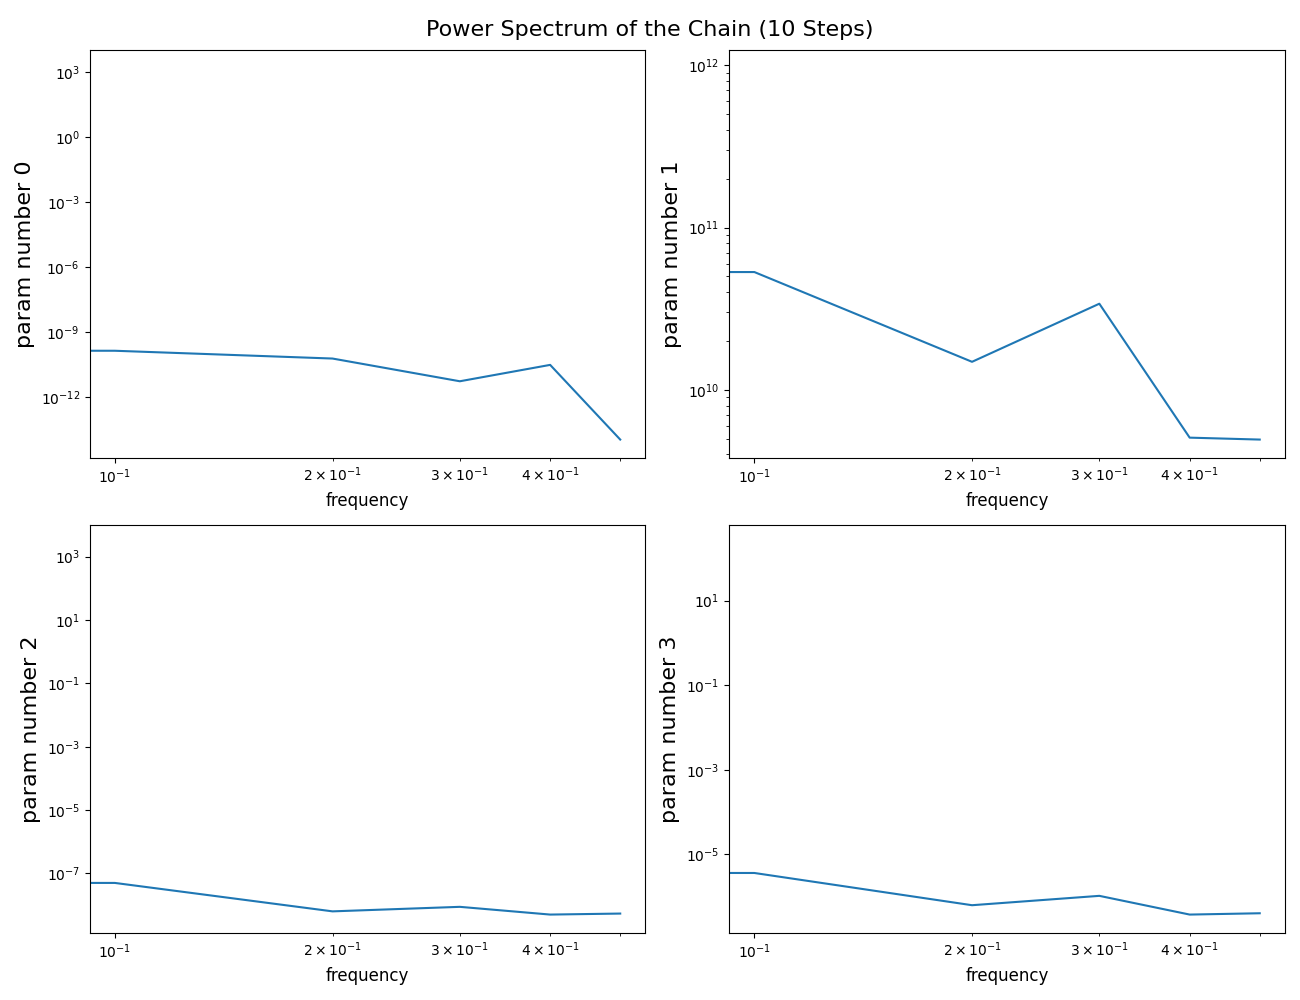
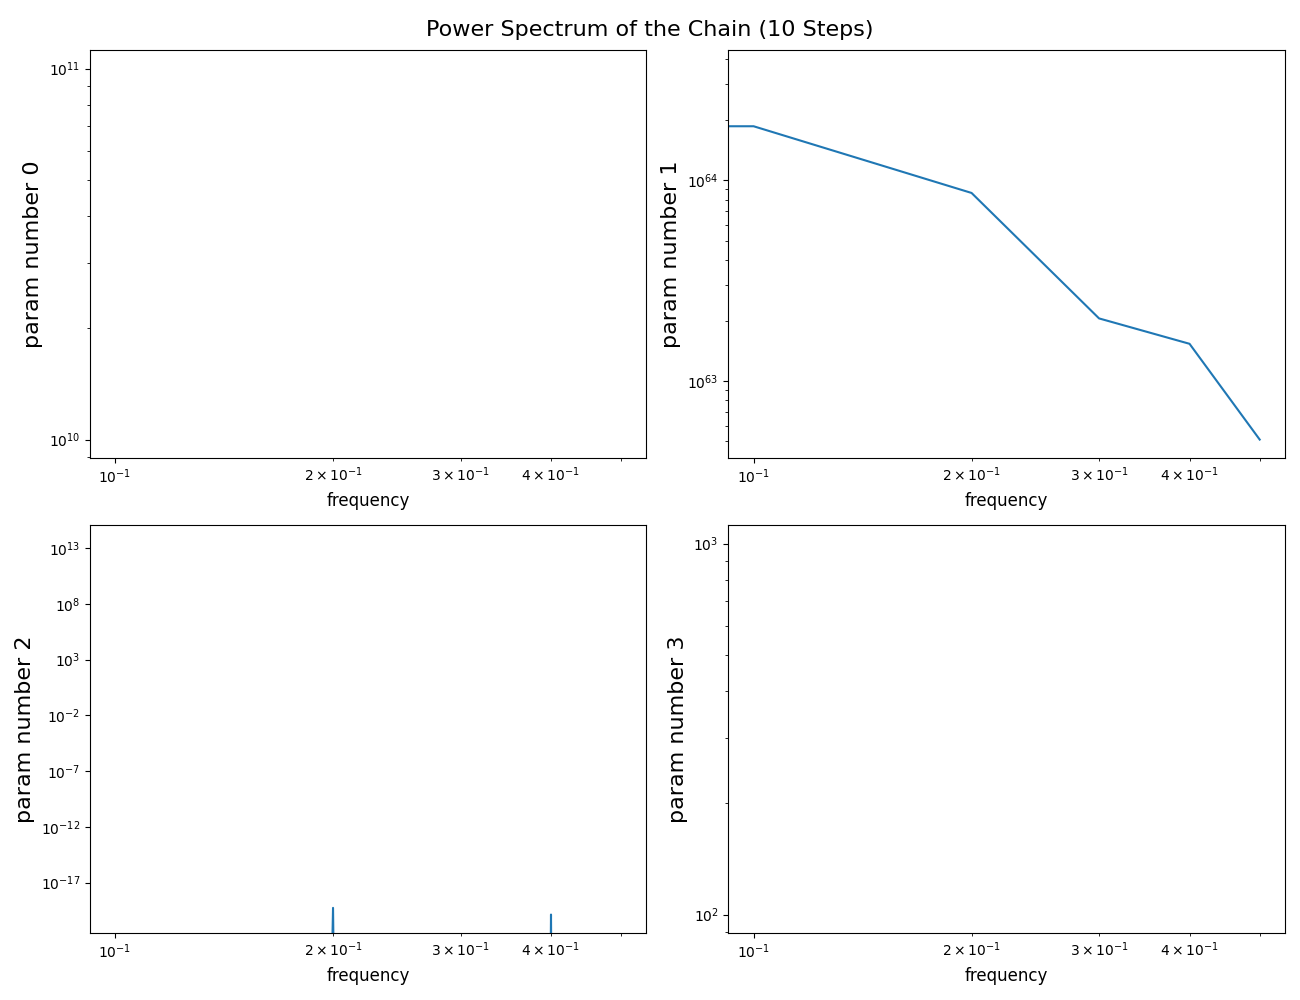
fixed the bug with parameters

diff --git a/code_history/known_curve/mcmc.py b/code_history/known_curve/mcmc.py
@@ -8,8 +8,8 @@ from math import ceil
 
 # %%
 #loading the EDGES data (the e subscipt is related to EDGES)
-#data_1 = pd.read_csv('/home/o/oscarh/aryanah/My-Project/data/data_1.csv')
-data_1 = pd.read_csv('/home/aryana/GitHub/My-Project/data/data_1.csv')
+data_1 = pd.read_csv('/home/o/oscarh/aryanah/My-Project/data/data_1.csv')
+#data_1 = pd.read_csv('/home/aryana/GitHub/My-Project/data/data_1.csv')
 
 freq_e = data_1.iloc[:,0] #frequency, MHz
 
@@ -216,7 +216,7 @@ m_true, key = dict_to_list(dict_true)
 m_true = np.array(m_true, copy=True, dtype = 'float64')
 y_true = call_ares(list_to_dict(m_true, key), z_e)
 #m_0 = m_true * (1 +  0.1* np.random.randn(len(m_true)))
-m_0 = [3.9, 28, 5.1, 1.5]
+m_0 = [2E4, 7E28, 5E5, 1.5]
 err = 1E-3
 Ninv = ((err)**(-2))*np.eye(len(z_e))
 
@@ -242,24 +242,24 @@ mycovinv = np.array([[ 3.08793956e-03,  9.10388084e+29, -7.13314643e-02,
 # %%
 #MCMC inputs 
 param_length = len(m_true)
-nstep = 10
+nstep = 1000
 
 # %%
 #Running the MCMC
 params, cs, acceptance_ratio = mcmc(chisquare, m_0, mycovinv, y_true, Ninv, nstep)
-np.savetxt('params.gz' , params)
-#np.savetxt('/scratch/o/oscarh/aryanah/output_1/params.gz' , params)
+#np.savetxt('params.gz' , params)
+np.savetxt('/scratch/o/oscarh/aryanah/output_1/params.gz' , params)
 
-np.savetxt('csq.gz' , cs)
-#np.savetxt('/scratch/o/oscarh/aryanah/output_1/csq.gz' , cs)
+#np.savetxt('csq.gz' , cs)
+np.savetxt('/scratch/o/oscarh/aryanah/output_1/csq.gz' , cs)
 
 #MCMC output
 mcmc_param= np.empty(param_length)
 for i in range(param_length):
     mcmc_param[i] = np.mean(params[:,i]) #array of best parameters  
 
-txt = open('results.txt', 'w')
-#txt = open('/scratch/o/oscarh/aryanah/output_1/results.txt','w')
+#txt = open('results.txt', 'w')
+txt = open('/scratch/o/oscarh/aryanah/output_1/results.txt','w')
 txt.write('True Parameters: ' + repr(m_true) + '\n')
 txt.write('Starting Parameters: ' + repr(m_0) + '\n')
 txt.write('MCMC Fitted Parameters: ' + repr(mcmc_param) + '\n')
@@ -277,8 +277,8 @@ plt.plot(z_e, mcmc_T, label = 'MCMC')
 plt.plot(z_e, call_ares(list_to_dict(m_0, key), z_e), label = 'Initial Guess')
 plt.legend()
 plt.title('Result of MCMC (%d Steps)'%nstep, fontsize=12)
-plt.savefig('mcmc_result.png')
-#plt.savefig('/scratch/o/oscarh/aryanah/output_1/mcmc_result.png')
+#plt.savefig('mcmc_result.png')
+plt.savefig('/scratch/o/oscarh/aryanah/output_1/mcmc_result.png')
 
 # %%------------------------------------------------------------------------------------------------------------------------------
 #Plotting the chi-square trend
@@ -287,8 +287,8 @@ plt.semilogy(cs)
 plt.xlabel('number of steps', fontsize=12)
 plt.title ('Chi-Square Trend (%d Steps)'%nstep, fontsize=12)
 plt.ylabel('Chi-Square', fontsize=12)
-plt.savefig('chi-square.png')
-#plt.savefig('/scratch/o/oscarh/aryanah/output_1/chi-square.png')
+#plt.savefig('chi-square.png')
+plt.savefig('/scratch/o/oscarh/aryanah/output_1/chi-square.png')
 
 # %%---------------------------------------------------------------------------------------------------------------
 fig3, ax_list = plt.subplots(ceil(param_length/2), 2, figsize=(13,10))
@@ -314,8 +314,8 @@ else:
             
 
 plt.tight_layout()
-plt.savefig('parameters.png')
-#plt.savefig('/scratch/o/oscarh/aryanah/output_1/parameters.png') 
+#plt.savefig('parameters.png')
+plt.savefig('/scratch/o/oscarh/aryanah/output_1/parameters.png') 
 
 # %%-------------------------------------------------------------------------------------------------------------------------
 #Fourier Transform
@@ -355,8 +355,8 @@ else:
             
 
 plt.tight_layout()
-plt.savefig('fourier.png')
-#plt.savefig('/scratch/o/oscarh/aryanah/output_1/fourier.png')
+#plt.savefig('fourier.png')
+plt.savefig('/scratch/o/oscarh/aryanah/output_1/fourier.png')
 
 # %%----------------------------------------------------------------------------------------------------------------------
 #params_cut = params[1000:, :]
@@ -389,5 +389,5 @@ ax_list[2, 1].set_ylabel('param 3', fontsize=12)
 ax_list[2, 1].set_xlabel('param 2', fontsize=12)
 
 plt.tight_layout()
-plt.savefig('corner_plots.png')
-#plt.savefig('/scratch/o/oscarh/aryanah/output_1/corner_plots.png')
+#plt.savefig('corner_plots.png')
+plt.savefig('/scratch/o/oscarh/aryanah/output_1/corner_plots.png')
